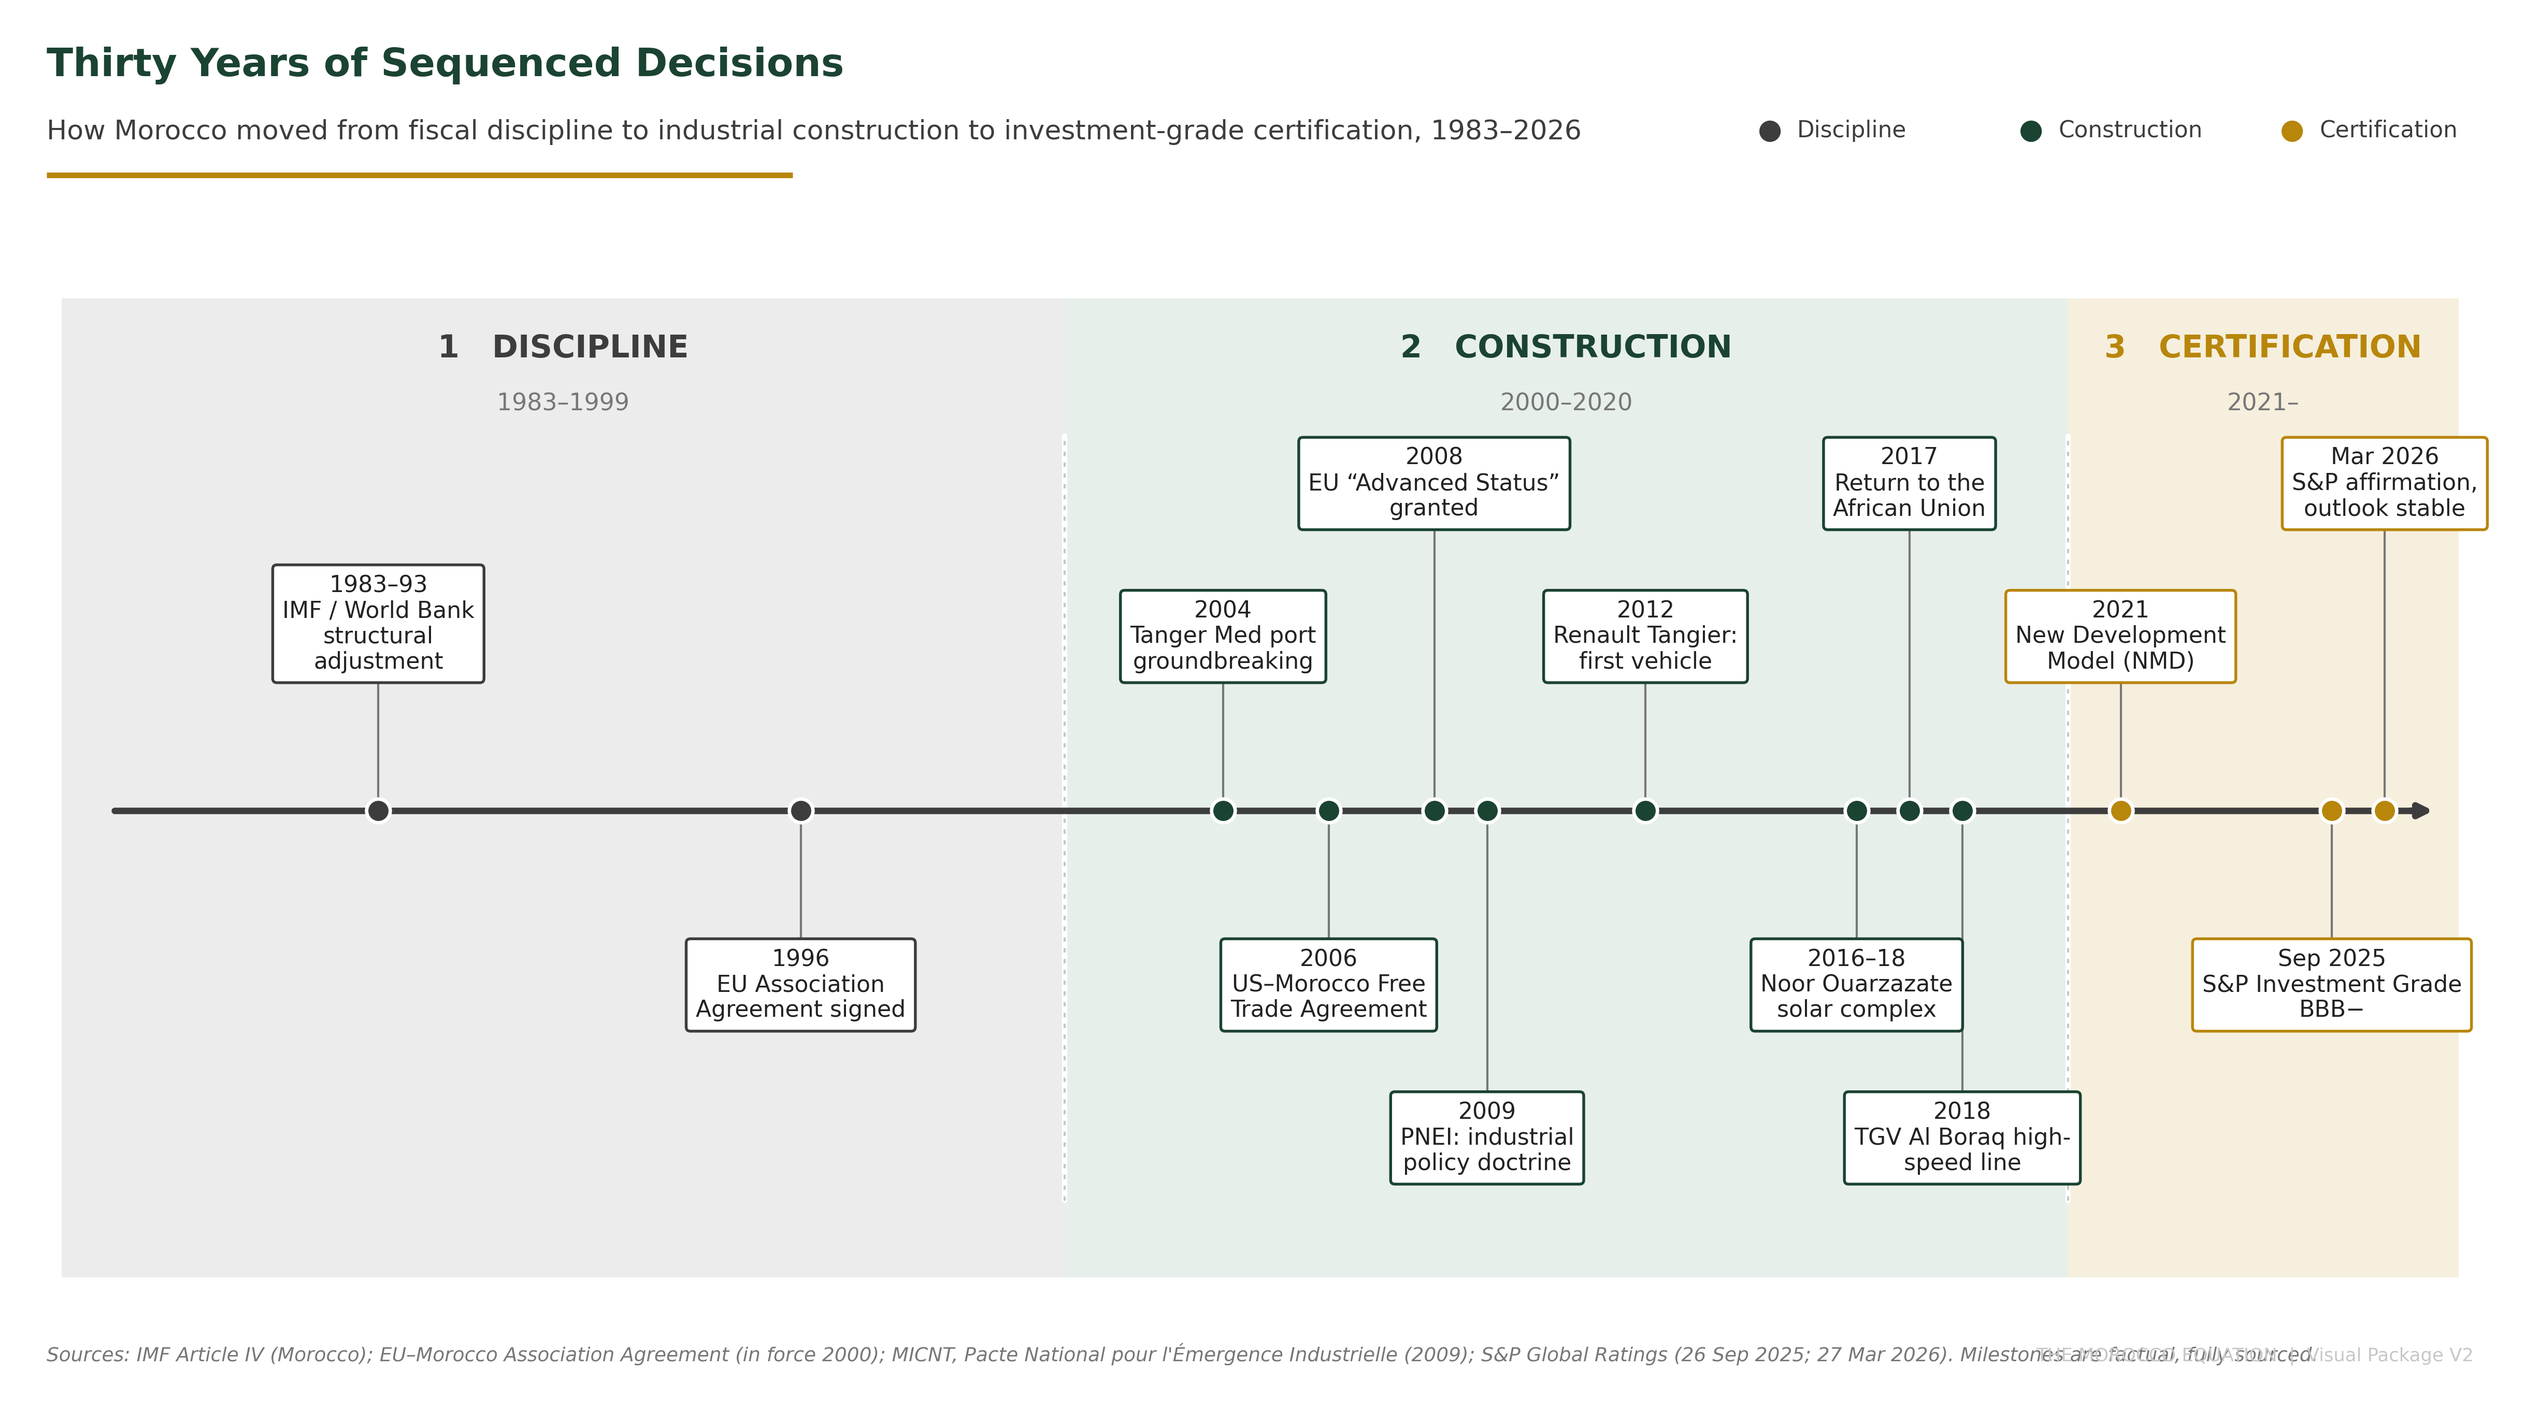
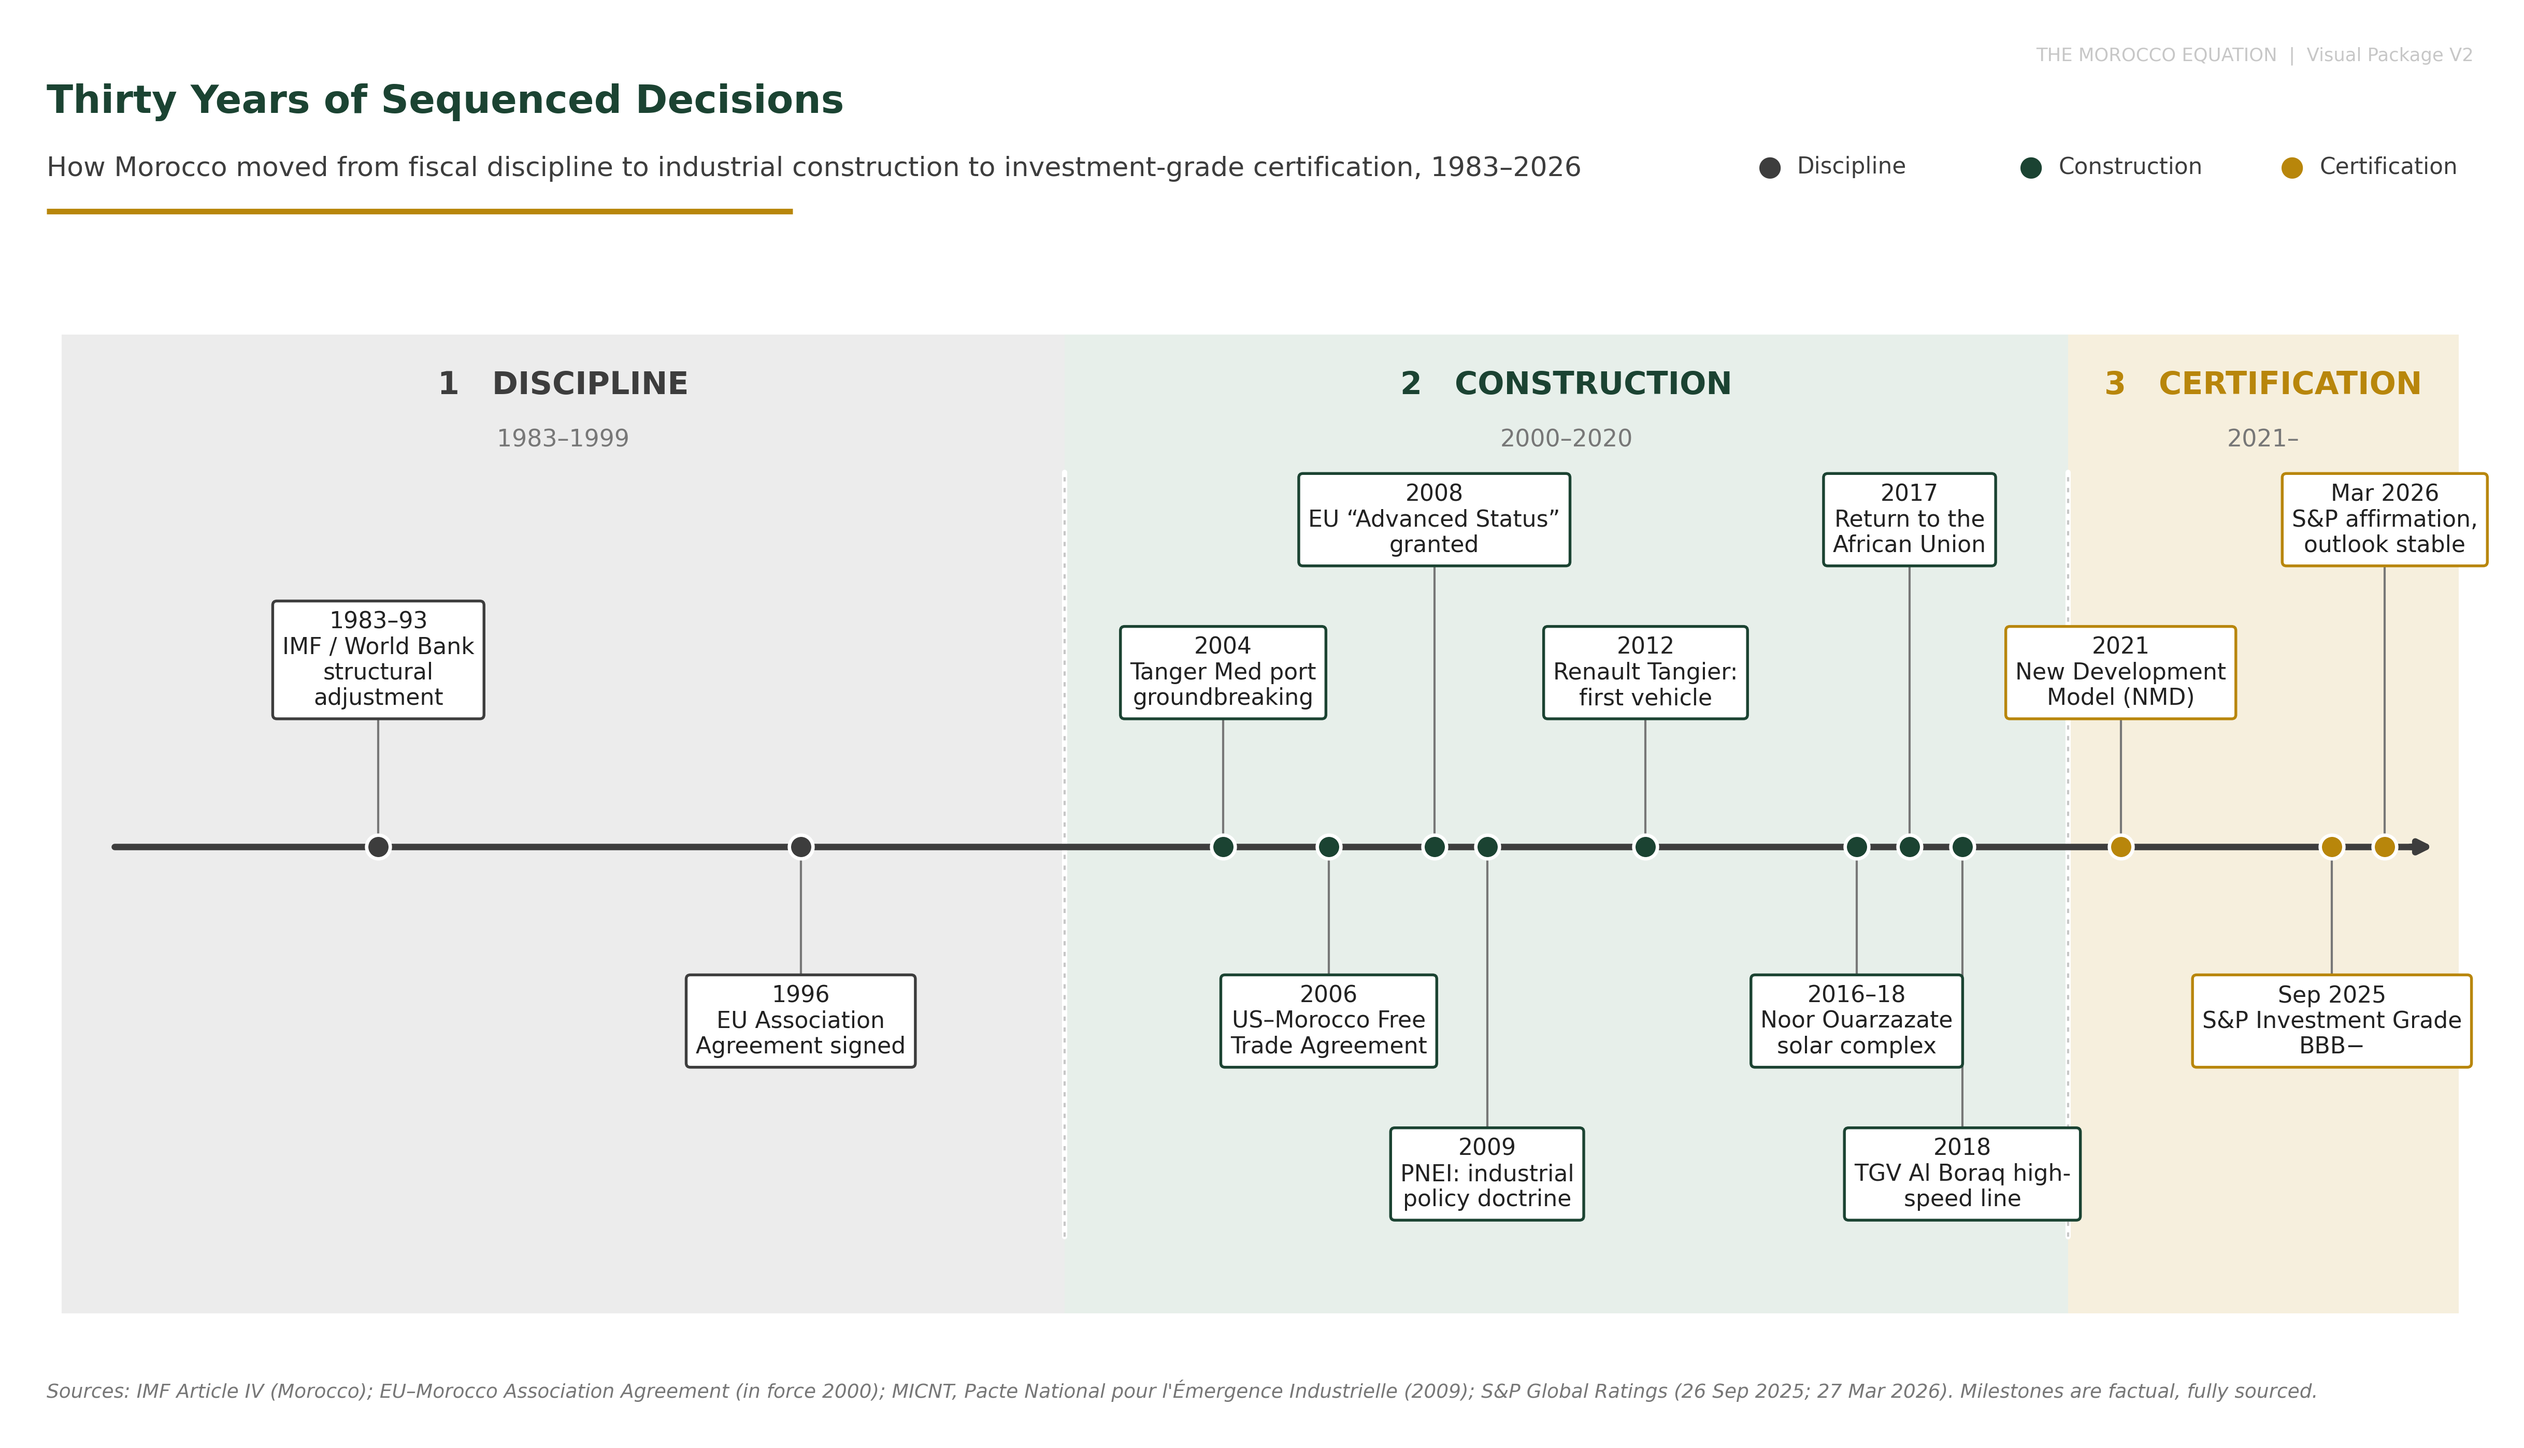
Figure 1: fix footer source/tag overlap; add full layout audit (clip + overlap)

diff --git a/Visuals_V2/_style/me_style.py b/Visuals_V2/_style/me_style.py
@@ -155,3 +155,67 @@ def report_overlaps(fig, items, pad=1.0):
                 print(f"  [OVERLAP] '{ni}'  <->  '{nj}'")
     print(f"  [overlap-check] {len(boxes)} labels measured, {n} overlaps.")
     return n
+
+
+
+def audit_layout(fig, tol=2.0):
+    """
+    Comprehensive headless layout audit (since the renderer is not visible).
+    Checks EVERY non-empty text artist for:
+      (1) CLIPPING - any part outside the figure canvas;
+      (2) OVERLAP  - bounding-box collision with another text artist.
+    Tick labels on the same axis are exempt from the overlap check (they sit
+    naturally adjacent). Prints a report and returns (n_clip, n_overlap).
+    """
+    fig.canvas.draw()
+    rnd = fig.canvas.get_renderer()
+    W, H = fig.canvas.get_width_height()
+
+    import matplotlib.text as mtext
+    skip_ids = set()
+    for ax in fig.get_axes():
+        axison = getattr(ax, "axison", True)
+        for tl in (ax.get_xticklabels() + ax.get_yticklabels()):
+            # tick labels of an axis that is turned off are NOT drawn
+            if not axison:
+                skip_ids.add(id(tl))
+    tick_ids = set()
+    for ax in fig.get_axes():
+        for tl in (ax.get_xticklabels() + ax.get_yticklabels()):
+            tick_ids.add(id(tl))
+
+    texts = []
+    for t in fig.findobj(mtext.Text):
+        s = (t.get_text() or "").strip()
+        if not s or not t.get_visible() or id(t) in skip_ids:
+            continue
+        try:
+            bb = t.get_window_extent(renderer=rnd)
+        except Exception:
+            continue
+        if bb.width <= 0 or bb.height <= 0:
+            continue
+        texts.append((t, bb, s, id(t) in tick_ids))
+
+    n_clip = 0
+    for t, bb, s, _ in texts:
+        if bb.x0 < -tol or bb.y0 < -tol or bb.x1 > W + tol or bb.y1 > H + tol:
+            n_clip += 1
+            print(f"  [CLIP] '{s[:42]}'  bbox=({bb.x0:.0f},{bb.y0:.0f},{bb.x1:.0f},{bb.y1:.0f}) canvas=({W},{H})")
+
+    n_over = 0
+    for i in range(len(texts)):
+        for j in range(i + 1, len(texts)):
+            ti, bi, si, tki = texts[i]
+            tj, bj, sj, tkj = texts[j]
+            if tki and tkj:
+                continue  # adjacent tick labels are fine
+            if bi.overlaps(bj):
+                # ignore negligible touches
+                ox = min(bi.x1, bj.x1) - max(bi.x0, bj.x0)
+                oy = min(bi.y1, bj.y1) - max(bi.y0, bj.y0)
+                if ox > 2 and oy > 2:
+                    n_over += 1
+                    print(f"  [OVERLAP] '{si[:30]}'  <->  '{sj[:30]}'  (ox={ox:.0f},oy={oy:.0f})")
+    print(f"  [audit] {len(texts)} texts | clips={n_clip} | overlaps={n_over} | canvas={W}x{H}")
+    return n_clip, n_over

diff --git a/Visuals_V2/Figure_01/build_fig01.py b/Visuals_V2/Figure_01/build_fig01.py
@@ -111,7 +111,7 @@ S.sourceblock(
     "MICNT, Pacte National pour l'\u00c9mergence Industrielle (2009); "
     "S&P Global Ratings (26 Sep 2025; 27 Mar 2026). Milestones are factual, fully sourced.",
 )
-S.tag(fig)
+S.tag(fig, y=0.978)
 # legend of phases (compact, under the title rule, right side)
 lx = 0.70
 for i, (lab, ph) in enumerate([("Discipline", 0), ("Construction", 1), ("Certification", 2)]):
@@ -123,5 +123,7 @@ for i, (lab, ph) in enumerate([("Discipline", 0), ("Construction", 1), ("Certifi
 out = os.path.join(os.path.dirname(__file__), "FIG-01_sequencing_timeline_V2.png")
 print("Overlap check (milestone labels):")
 S.report_overlaps(fig, label_artists, pad=1.12)
+print("Full layout audit:")
+S.audit_layout(fig)
 fig.savefig(out)
 print("WROTE", out)
